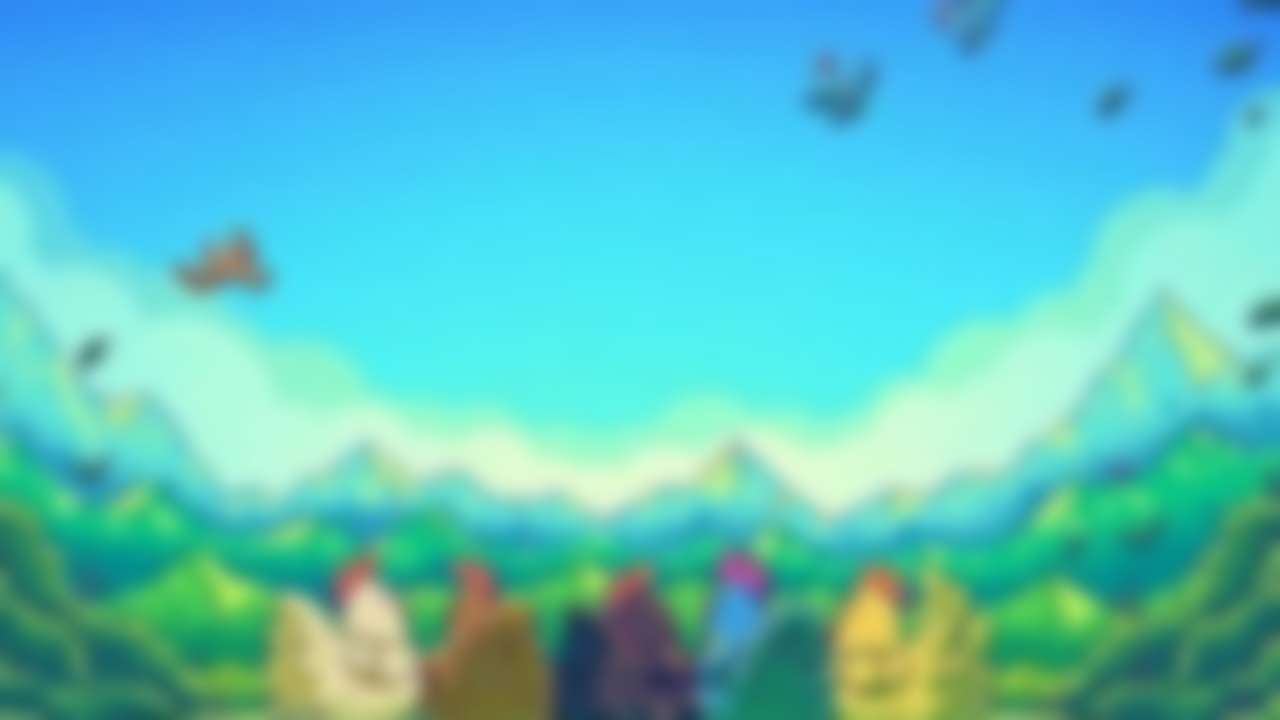
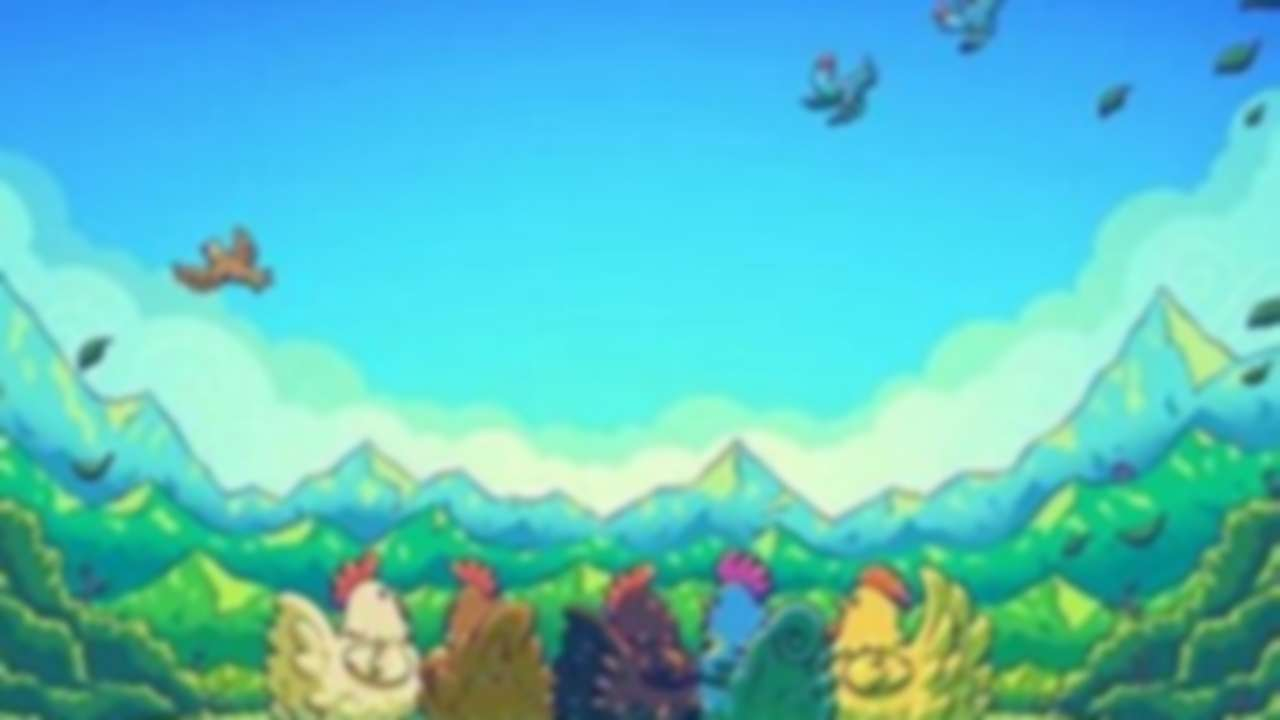
feat: 背景再清晰一点（虚化 blur 9 → 4）
按你的要求调。实测各档后取 blur 4：
- 9（上一版）太糊，只剩色带
- **4 能看清飞鸟 / 飘叶 / 山脊，又还柔和**（当前取这档）
- 2 更锐、0 完全不虚化 —— 源图只有 289 宽，放大到 1280 的痕迹会露出来

顺带核过：
- 体积 24.3 KB → 35.6 KB
- 对比度仍是 9.1:1（平均色没变，AA 要求 4.5:1）
- 本地实拍确认背景图确实换成了新版本

档位记录写进了 bg-config.json 与 make-bg.py / style.css / README 的注释，
下次想调（更清晰或更糊）就是改一个数 + 重跑 scripts/make-bg.py。

diff --git a/css/style.css b/css/style.css
@@ -49,7 +49,7 @@
 /* ===== 内容区背景：一张虚化的卡通画 =====
  *
  * 图是 scripts/bg-source.jpg（289×202），由 scripts/make-bg.py 加工：
- * 放大到 1280 宽 → 虚化 blur 9 → JPEG q60，约 24 KB。
+ * 放大到 1280 宽 → 虚化 blur 4 → JPEG q60，约 36 KB。
  * 源图**提交在仓库里**，所以全新克隆也能重跑这一步。
  *
  * ⚠ 下面四条都是实测踩出来的，动之前先看理由：

diff --git a/scripts/make-bg.py b/scripts/make-bg.py
@@ -14,8 +14,9 @@
 为什么这么加工：
   ① **放大到 1280 宽**：源图只有 289 宽，cover 铺满视口必须放大；用 LANCZOS，
      不用最近邻——原图是平滑的卡通画而非像素画，最近邻会出锯齿。
-  ② **虚化 blur 9**：用户要的「虚化处理」。实测三档：blur 4 山峦树木都清楚（抢内容）、
-     blur 16 只剩色带、**blur 9 能看出天空 / 山 / 草地又不抢戏**。档位只是配置里的一个数。
+  ② **虚化 blur 4**：实测各档 —— 9 太糊（只剩色带，用户要求「再清晰一点」）、
+     **4 能看清飞鸟 / 飘叶 / 山脊且仍柔和**、2 更锐、0 完全不虚化（源图只有 289 宽，
+     放大到 1280 的痕迹会露出来）。档位只是配置里的一个数。
   ③ **JPEG q60**：画面本来就虚，画质损失看不出来；约 30 KB。
 
 上一版是「26 个模块各一张游戏地点截图」（bg-map.json + fetch-bg-raw.js + 26 张图）。

diff --git a/README.md b/README.md
@@ -30,7 +30,7 @@
 - **工具（21 条）**：斧头 / 十字镐 / 喷壶 / 锄头 / 垃圾桶 / 淘盘 / 镰刀 / 金色的镰刀 / 铱镰刀 / 剪刀 / 挤奶桶 / 加热器 / 喂料斗 / 孵化器 / 自动抚摸机 / 自动采集器 / 5 种鱼竿。**带完整升级链**——等级表的名称 / 花费 / 材料 / 提升说明逐级列出，材料可点进对应条目；可按「可升级工具 / 镰刀 / 鱼竿 / 畜牧用品 / 建筑设施」筛选
 - **动物制品（16 条）**：蛋 / 大鸡蛋 / 虚空蛋 / 金蛋 / 鸭蛋 / 鸭毛 / 兔子的脚 / 动物毛 / 牛奶 / 大壶牛奶 / 羊奶 / 大瓶羊奶 / 鸵鸟蛋 / 史莱姆泥 / 史莱姆球 / 鱼籽。含售价、回复体力、品质分级与获取方式；详情有**「由这些动物产出」反向区块**（产物 → 动物），可按「鸡舍产物 / 畜棚产物 / 其他来源」筛选。售价不一定是数字——**鱼籽是公式、史莱姆球不可出售**，这两种存的是说明文字而不是硬塞一个数字
 - **动物（12 条）**：鸡 / 虚空鸡 / 金色的鸡 / 鸭 / 兔子 / 恐龙 / 牛 / 山羊 / 绵羊 / 猪 / 鸵鸟 / 达斯迪。含**所需建筑**（鸡舍 / 大鸡舍 / 高级鸡舍 / 畜棚 / 大畜棚 / 高级畜棚）、购买价格与**产出**（产物名可点进对应条目）；可按「鸡舍动物 / 畜棚动物 / 宠物」筛选。动物精灵尺寸参差（牛 90×69、鸵鸟 93×96…），下载后按**整数倍**最近邻缩放到 48×48 内，保证像素 1:1 不糊（R23）
-- **内容区背景**：一张**虚化的卡通画**（天空 / 山峦 / 草地，源图 289×202 提交在 `scripts/bg-source.jpg`），由 `scripts/make-bg.py` 放大到 1280 宽 + 虚化 blur 9 + JPEG q60，**24 KB**。虚化档位是配置里的一个数（实测 blur 4 会抢内容、blur 16 只剩色带）；洗白 0.70，正文对比度 **9.1:1**。用 `position: fixed` 的伪元素实现（**不用 `background-attachment: fixed`**——实测后者滚动帧间隔 4.2ms→16.6ms，慢 4 倍且代价在合成器上）。上一版「26 个模块各一张游戏地点截图」已整套移除
+- **内容区背景**：一张**虚化的卡通画**（天空 / 山峦 / 草地，源图 289×202 提交在 `scripts/bg-source.jpg`），由 `scripts/make-bg.py` 放大到 1280 宽 + 虚化 blur 4 + JPEG q60，**36 KB**。虚化档位是配置里的一个数（实测 blur 4 会抢内容、blur 16 只剩色带）；洗白 0.70，正文对比度 **9.1:1**。用 `position: fixed` 的伪元素实现（**不用 `background-attachment: fixed`**——实测后者滚动帧间隔 4.2ms→16.6ms，慢 4 倍且代价在合成器上）。上一版「26 个模块各一张游戏地点截图」已整套移除
 - **名称别名机制**：同一件东西在站内有多个叫法时（如「苹果」↔「苹果树」），别名也能被搜索与跳转命中——**但别名不覆盖已有的正式名**（「芒果」已由农作物收录，果树模块就不登记该别名，R53）
 - **收集包与物品双向打通**：收集包里的每个需求物品都能点开对应条目（作物/鱼/矿/怪…）；反过来，任意物品的详情页都有「用于收集包」一节，反查它被哪些包需要
 - **礼物双向打通**：NPC 的最爱礼物 chip 可直接点开该物品；反过来，物品详情页有「送礼对象」一节，列出最爱它的村民——**54 个礼物可直接跳转**，其余属于尚未收录的模块，已在自检的缺口表中登记
